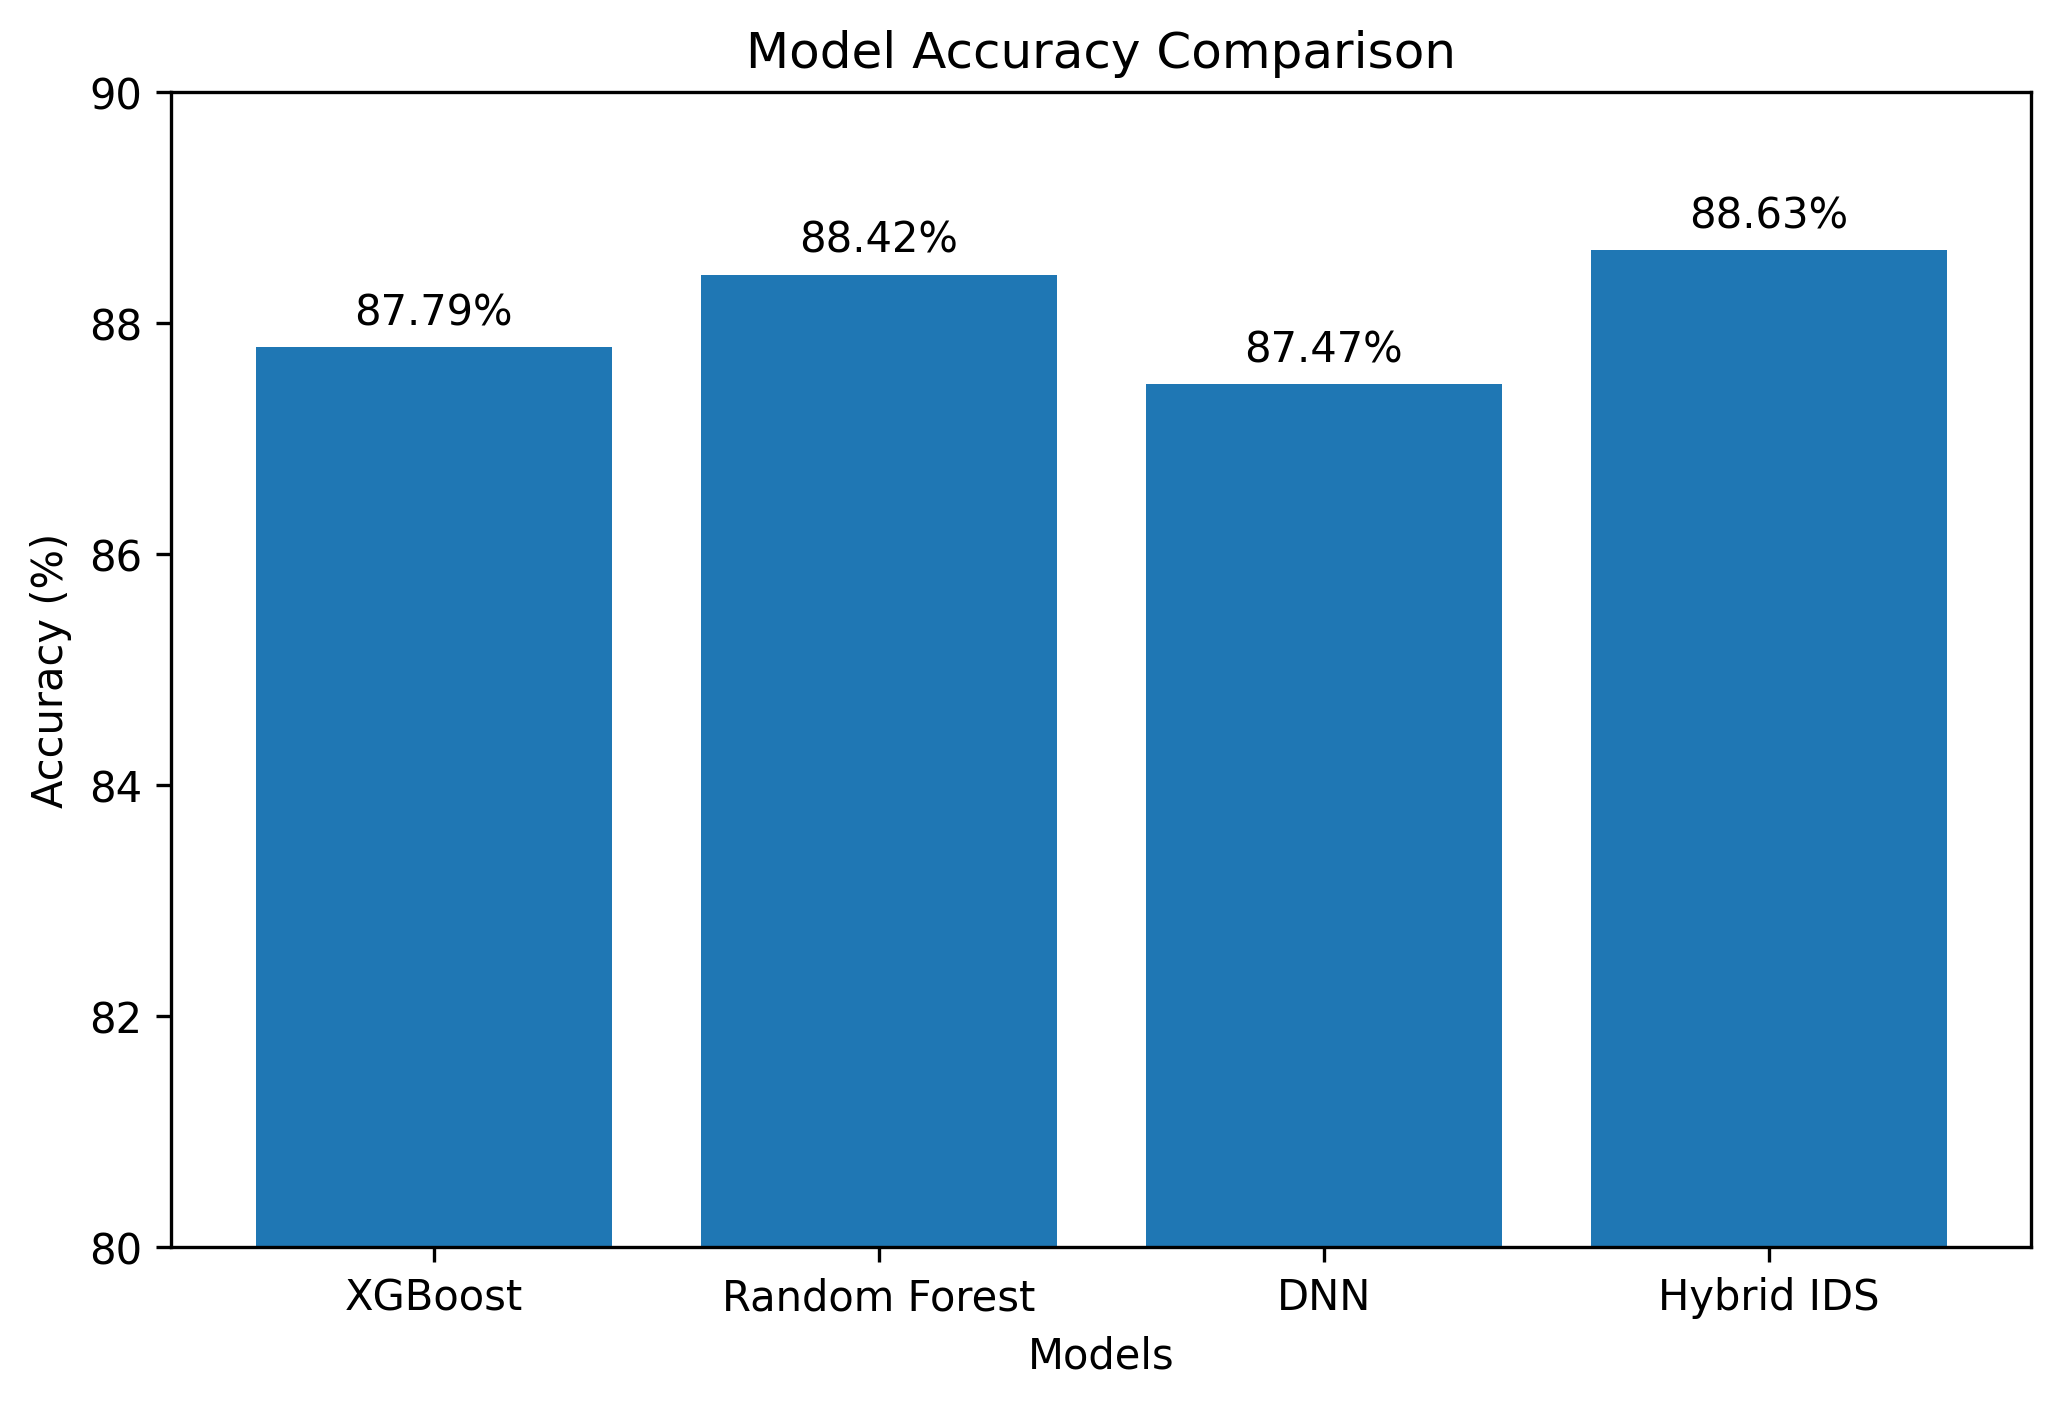
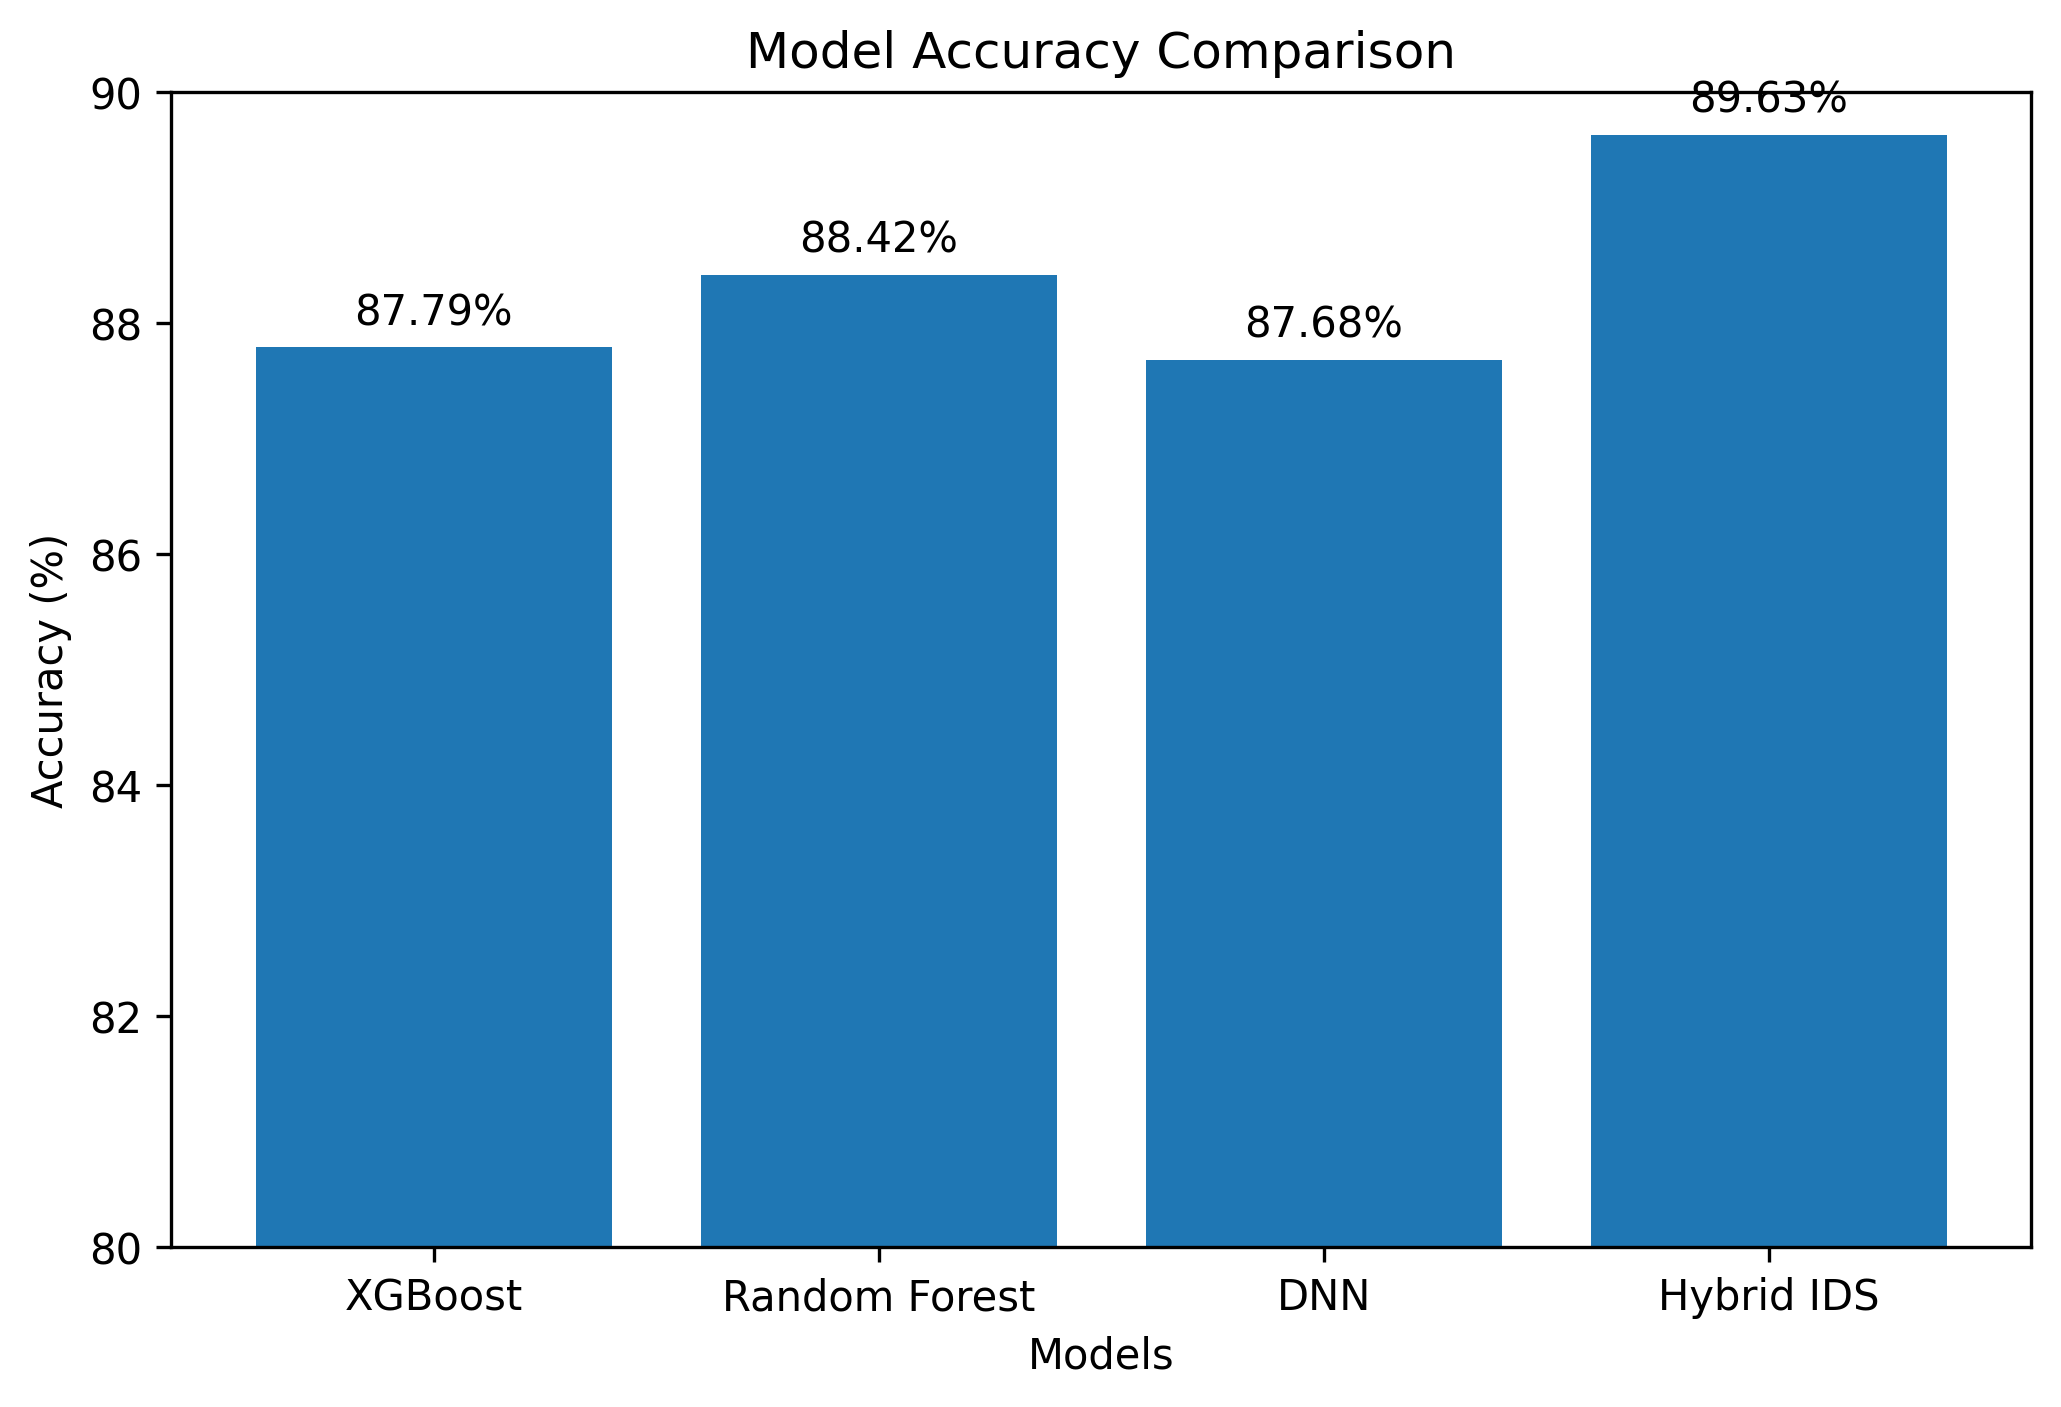
Updated visualization and automatic recovery

Changed region(s): [[0.7453, 0.0611, 0.9626, 0.1834], [0.559, 0.2139, 0.7453, 0.2751]]

diff --git a/visualizations.py b/visualizations.py
@@ -10,7 +10,7 @@ rf_accuracy = 88.42
 dnn_accuracy = 87.68
 hybrid_accuracy = 89.63
 
-plt.figure(figsize=(8, 5))
+plt.figure(figsize=(8, 6))
 
 models = ["XGBoost", "Random Forest", "DNN", "Hybrid IDS"]
 accuracies = [xgb_accuracy, rf_accuracy, dnn_accuracy, hybrid_accuracy]